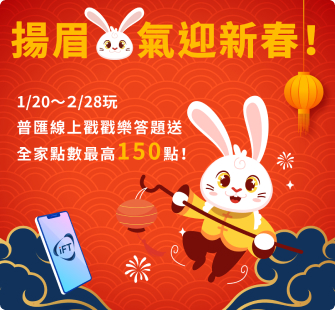
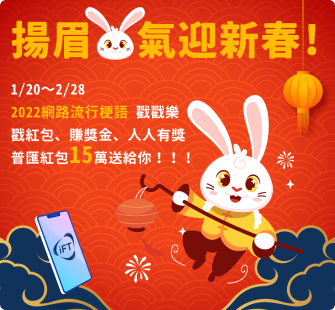
feature: 更新banner圖片及修正時間顯示

diff --git a/resources/js/frontdesk/pages/alesis-index.vue b/resources/js/frontdesk/pages/alesis-index.vue
@@ -1301,7 +1301,7 @@ export default {
   },
   methods: {
     newYearHeader(page) {
-      const now = new Date('')
+      const now = new Date()
       // 最後上班日
       const date1 = new Date('2023-01-19 09:00')
       // 休假第二天
